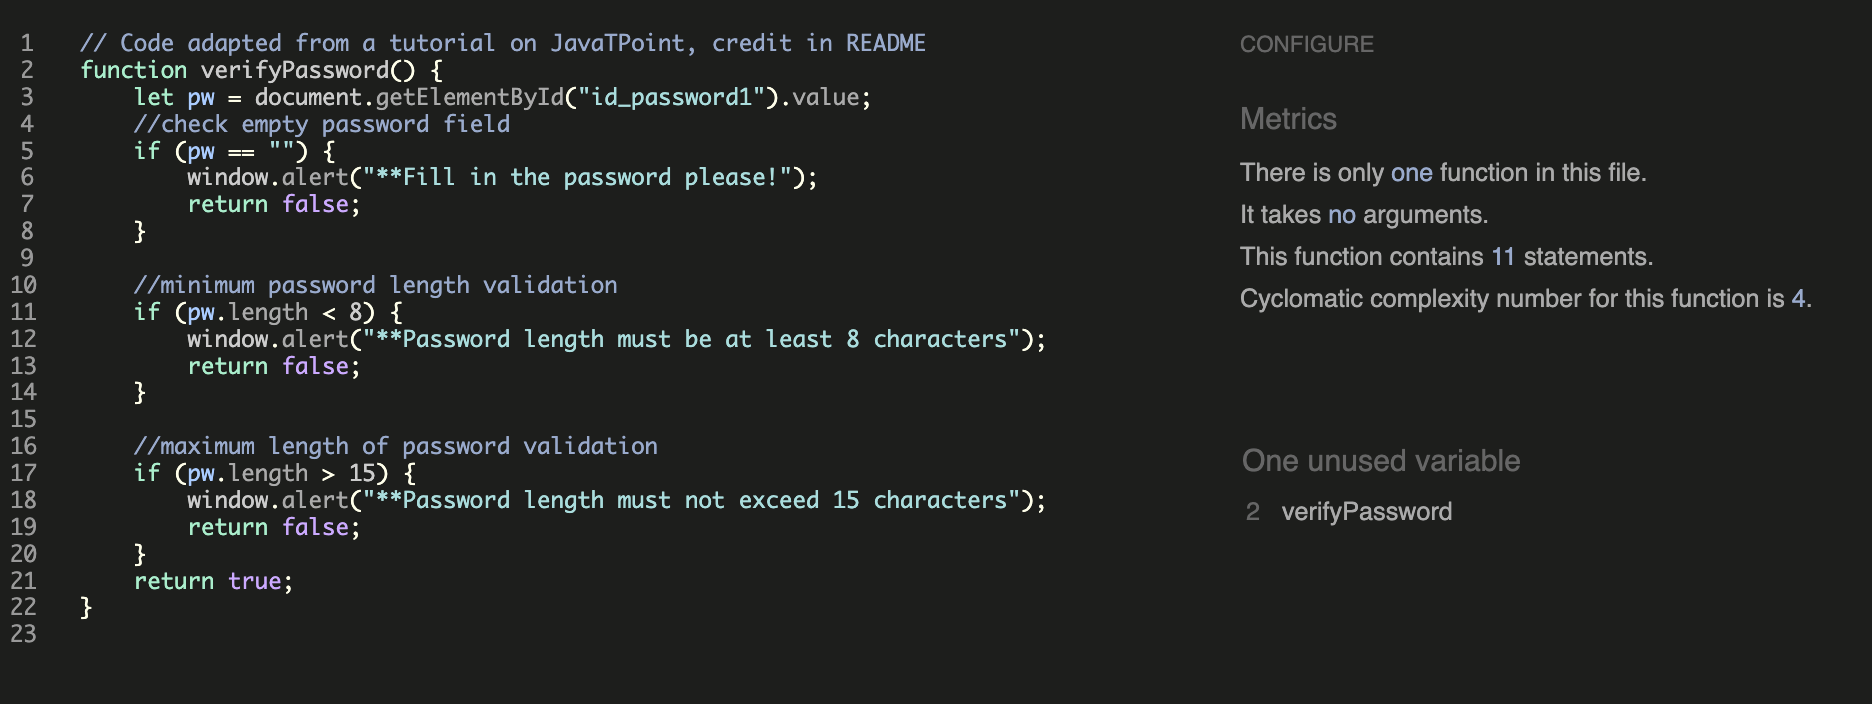
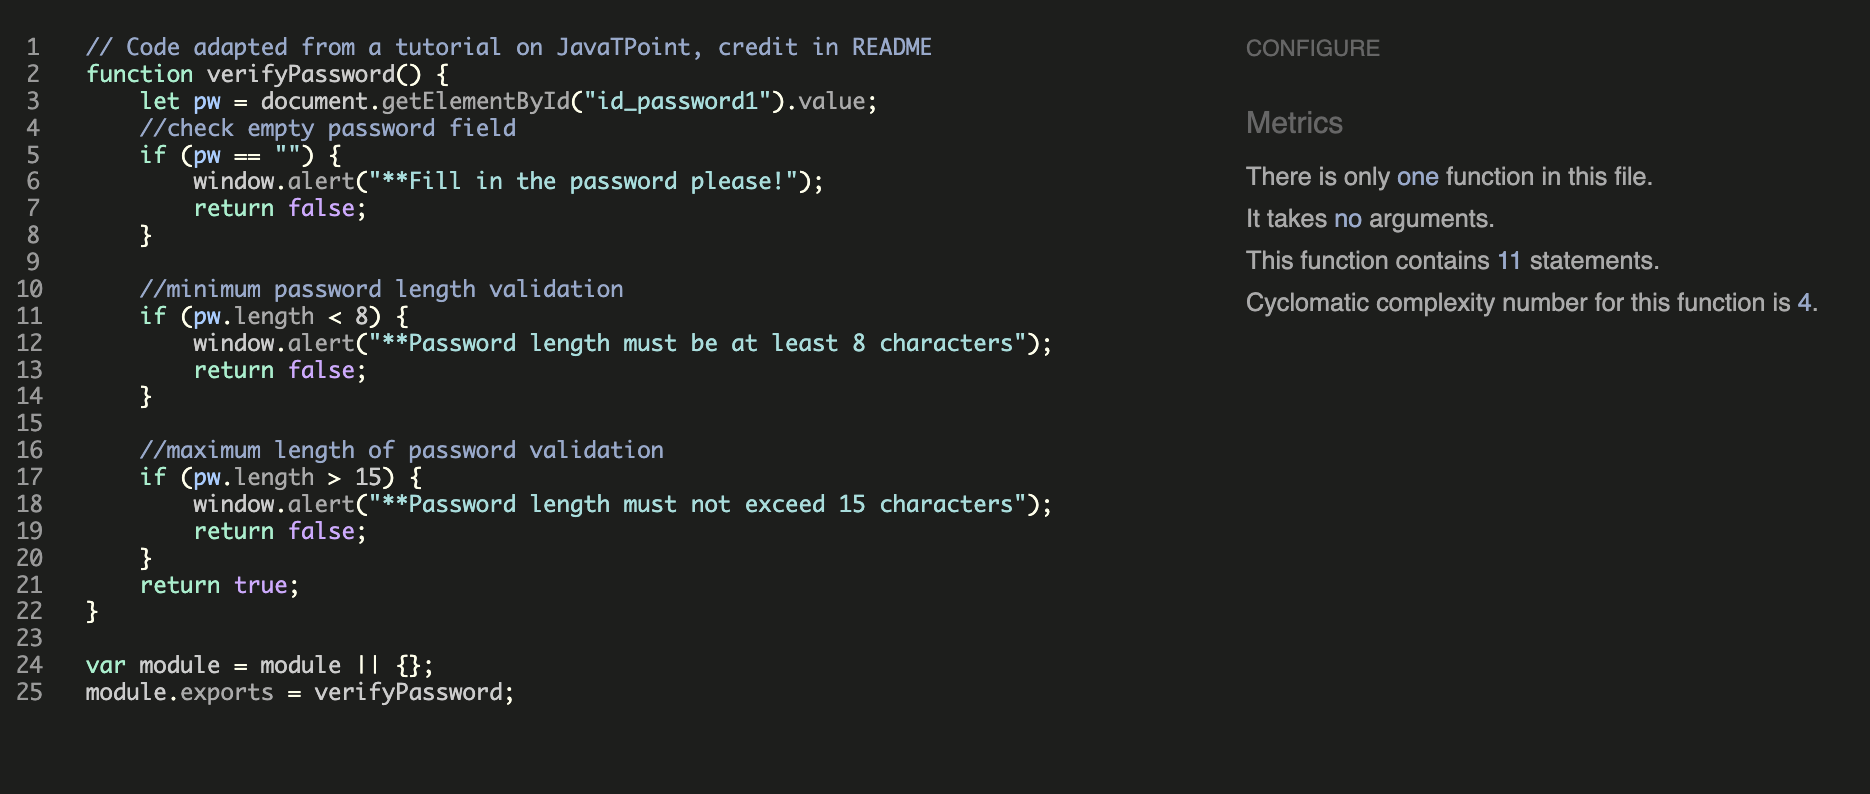
Update JS file + JS validator results

diff --git a/static/js/script.js b/static/js/script.js
@@ -21,6 +21,5 @@ function verifyPassword() {
     return true;
 }
 
-module.exports = {
-    verifyPassword
-};
+var module = module || {};
+module.exports = verifyPassword;

diff --git a/TESTING.md b/TESTING.md
@@ -58,7 +58,6 @@ No errors were found when passing through the official [(Jigsaw) validator](http
 ### Validator Testing - JavaScript
 No errors were found when passing through the official [JSHint validator](https://jshint.com/):
 ![JavaScript validator results](static/readme/js-validator.png)
-The unused variable is called directly from the form's HTML.
 
 ### Lighthouse Testing
 I was receiving a console error due to my ```module.export``` at the bottom of my JavaScript file, which was necessary for Jest testing:
